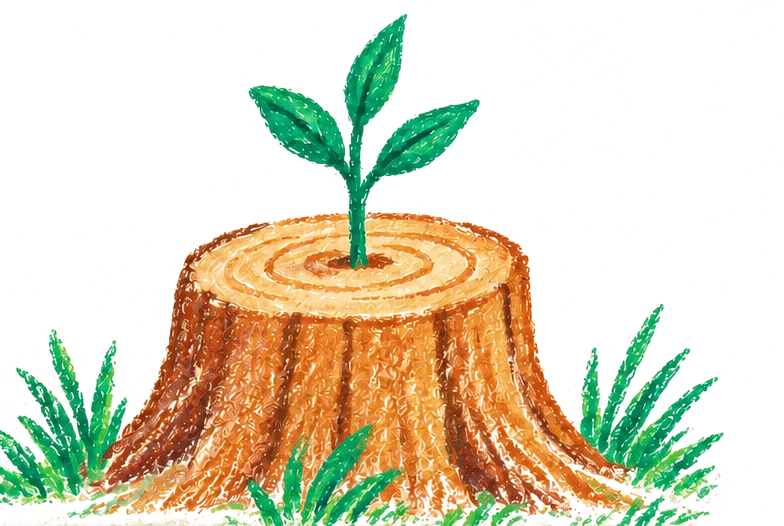
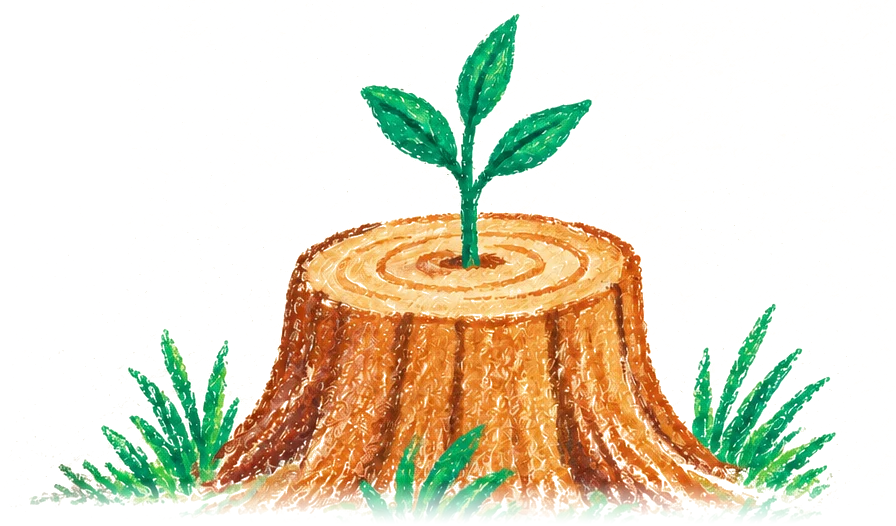
Close the look gate: phone overflow, paused pill, copy command, tap targets, band scale, whole plates
- Hidden tooltips leave layout, and the account and top-bar tooltips anchor to the right edge, so no
  screen pans sideways at 390 for any role.
- A paused top bar at 900 px and below shows an ink "Resume" pill (still named "Resume publishing").
- The homepage Copy button copies the bare install command; the prompt sits outside <code>.
- Header and footer Docs links and the Settings tabs are at least 44 px wide.
- The homepage bands follow the picked image's type scale and spacing at 1100 px and wider.
- The hero plate and both tufts are re-cut so the grass keeps its own tips, with soft bottom edges.

diff --git a/src/site/styles/landing.css b/src/site/styles/landing.css
@@ -1,6 +1,7 @@
 /* The homepage (SPEC §2.2): measured on hero/HERO-1440.png, stacked at 390. */
-.lp-hero { position: relative; padding-bottom: 56px; }
-.lp-hero-plate { position: absolute; top: -6px; left: 49%; width: min(735px, 51vw); height: auto; z-index: 0; pointer-events: none; }
+.lp-hero { position: relative; padding-bottom: 56px; overflow-x: clip; }
+/* The plate is cut at 1536 scale from x 640 (the left grass's tips) and drawn at 0.9375, so the stump itself stays at x 49 %. */
+.lp-hero-plate { position: absolute; top: -6px; left: calc(49% - min(105px, 7.292vw)); width: min(840px, 58.333vw); height: auto; z-index: 0; pointer-events: none; }
 .lp-hero-copy { position: relative; z-index: 1; padding-top: 46px; }
 .lp-hero h1 { margin: 0; max-width: 700px; color: var(--ink); font: 800 clamp(40px, 5.9vw, 84px)/0.96 var(--font); letter-spacing: -0.03em; }
 .lp-sub { margin: 30px 0 0; max-width: 500px; font-size: clamp(17px, 1.4vw, 20px); line-height: 1.6; color: var(--ink); }
@@ -44,7 +45,7 @@
 .lp-body { margin: 24px 0 0; font-size: clamp(16.5px, 1.25vw, 18px); line-height: 1.6; color: var(--body); max-width: 30em; }
 .lp-band h2 { max-width: 9.6em; }
 .lp-band-card { position: relative; }
-.lp-tuft { position: absolute; width: 64px; height: auto; top: -46px; z-index: 0; pointer-events: none; }
+.lp-tuft { position: absolute; width: auto; height: 64px; top: -44px; z-index: 0; pointer-events: none; }
 .lp-tuft--right { right: 8px; }
 .lp-tuft--left { left: -6px; }
 .lp-band-card > .lp-card, .lp-band-card > .lp-terminal { position: relative; z-index: 1; }
@@ -87,8 +88,9 @@
 .lp-check-title { margin: 0 0 2px; font: 600 19px/1.3 var(--font); color: var(--ink); }
 .lp-checks .lp-row-meta { margin: 0; }
 .lp-terminal { display: flex; align-items: center; justify-content: space-between; gap: 16px; padding: 40px 32px; border-radius: 16px; background: var(--ink); color: #F3EFE6; box-shadow: var(--card-shadow); }
-.lp-terminal code { font: 400 18px/1.5 var(--mono); overflow-wrap: anywhere; }
-.lp-terminal code span { color: #6FCFA6; }
+.lp-command { margin: 0; min-width: 0; font: 400 18px/1.5 var(--mono); overflow-wrap: anywhere; }
+.lp-terminal code { font: inherit; }
+.lp-prompt { color: #6FCFA6; }
 .lp-tip { position: relative; display: inline-flex; flex: none; }
 .lp-tip [role="tooltip"] { position: absolute; bottom: calc(100% + 8px); right: 0; white-space: nowrap; background: var(--white); color: var(--ink); font-size: 13px; padding: 4px 8px; border-radius: 6px; opacity: 0; pointer-events: none; transition: opacity .1s; }
 .lp-tip:hover [role="tooltip"] { opacity: 1; transition-delay: .3s; }
@@ -113,6 +115,51 @@
 
 @media (prefers-reduced-motion: reduce) { .lp-tile { transition: none; } .lp-tile:hover { transform: none; } }
 
+/* 1100 and wider: the picked image's scale (SPEC preamble, style process step 3), which runs larger than §3.2's table */
+@media (min-width: 1101px) {
+  .lp-band { padding-block: 56px; }
+  .lp-band-grid { gap: 64px; }
+  .lp-eyebrow { margin-bottom: 12px; font-size: 17px; line-height: 22px; letter-spacing: 0.12em; }
+  .lp-band h2, .lp-details h2 { font-size: clamp(52px, 4.6vw, 66px); line-height: 1; }
+  .lp-band h2 { max-width: 8.6em; }
+  .lp-body { margin-top: 28px; font-size: clamp(19px, 1.5vw, 22px); line-height: 1.5; max-width: 28em; }
+  .lp-feature { padding: 32px 36px; }
+  .lp-card-title { margin-bottom: 10px; font: 700 26px/1.3 var(--font); letter-spacing: -0.005em; }
+  .lp-rows li { gap: 14px; min-height: 66px; }
+  .lp-row-name { font-size: 21px; font-weight: 700; }
+  .lp-row-meta { font-size: 17px; }
+  .lp-band .lp-chips li, .lp-band .lp-chip { height: 32px; padding: 0 14px; font-size: 17px; }
+  .lp-master { padding: 22px 24px; font-size: 24px; line-height: 1.3; text-wrap: balance; }
+  .lp-variants { margin: 16px 0 24px; gap: 14px; }
+  .lp-variants li { padding: 14px 16px; }
+  .lp-variant-name { font-size: 18px; }
+  .lp-variant-count { font-size: 17px; }
+  .lp-pill { min-height: 50px; padding: 0 28px; font-size: 18px; }
+  .lp-pills { gap: 14px; margin-top: 22px; }
+  .lp-label { font-size: 18px; color: var(--ink); }
+  .lp-rules li { gap: 14px; padding: 8px 0; font-size: 19px; }
+  .lp-rules .lp-row-meta { font-size: 16px; }
+  .lp-small { margin: 6px 0; font-size: 18px; }
+  .lp-reply-who { font-size: 19px; }
+  .lp-tick--sm { width: 26px; height: 26px; }
+  .lp-checks .lp-tick--md { width: 44px; height: 44px; }
+  .lp-ledger table { font-size: 19px; }
+  .lp-ledger th { font-size: 18px; padding-bottom: 16px; }
+  .lp-ledger th, .lp-ledger td { padding-right: 24px; }
+  .lp-ledger td { padding-block: 20px; }
+  .lp-signups { font-size: 24px; }
+  .lp-checks li { gap: 28px; padding: 26px 0; }
+  .lp-check-title { font-size: 23px; }
+  .lp-checks .lp-row-meta { font-size: 18px; }
+  .lp-terminal { padding: 56px 40px; }
+  .lp-command { font-size: 20px; }
+  .lp-details { padding-block: 64px 80px; }
+  .lp-tiles { margin-top: 36px; gap: 20px; }
+  .lp-tile { gap: 16px; padding: 22px 28px 28px; font: 800 28px/1.2 var(--font); letter-spacing: -0.01em; }
+  .lp-tile .lp-tick--md { width: 40px; height: 40px; }
+  .lp-tuft { height: 72px; top: -50px; }
+}
+
 @media (max-width: 1100px) {
   .lp-hero-plate { opacity: .35; }
   .lp-steps { grid-template-columns: 1fr; }
@@ -128,7 +175,8 @@
   .lp-actions { flex-direction: column; align-items: stretch; gap: 4px; margin-top: 20px; }
   .lp-actions .site-pill--large { min-height: 52px; width: 100%; }
   .lp-actions .lp-textlink { justify-content: center; }
-  .lp-hero-plate { position: static; order: 1; width: 300px; margin: 8px auto 0; opacity: 1; }
+  /* 300 px of stump (the plate's right 784 of 896 columns), centred on the stump rather than the left grass */
+  .lp-hero-plate { position: static; order: 1; width: min(343px, 88vw); margin: 8px auto 0; transform: translateX(-6.25%); opacity: 1; }
   .lp-hero > .site-wrap:last-child { order: 2; }
   .lp-steps { margin-top: 0; gap: 12px; }
   .lp-step { min-height: 0; padding: 18px 20px; }
@@ -146,7 +194,7 @@
   .lp-band h2, .lp-details h2 { font-size: 32px; line-height: 34px; }
   .lp-body { margin-top: 16px; font-size: 17px; }
   .lp-feature { padding: 20px; }
-  .lp-tuft { width: 48px; top: -34px; }
+  .lp-tuft { width: auto; height: 48px; top: -33px; }
   .lp-rows li { flex-wrap: wrap; row-gap: 4px; min-height: 56px; padding: 8px 0; }
   .lp-row-name { font-size: 16px; }
   .lp-variants { grid-template-columns: repeat(2, minmax(0, 1fr)); }
@@ -156,7 +204,7 @@
   .lp-ledger th:nth-child(4), .lp-ledger td:nth-child(4) { display: none; }
   .lp-ledger table { font-size: 14px; }
   .lp-terminal { padding: 24px 20px; }
-  .lp-terminal code { font-size: 15px; }
+  .lp-command { font-size: 15px; }
   .lp-tiles { grid-template-columns: 1fr; gap: 12px; margin-top: 24px; }
   .lp-tile { flex-direction: row; align-items: center; gap: 16px; padding: 18px 20px; font-size: 18px; }
   .lp-closing-grid { grid-template-columns: 1fr; min-height: 0; gap: 8px; padding-bottom: 32px; }

diff --git a/src/stump/ui/styles.ts b/src/stump/ui/styles.ts
@@ -83,7 +83,7 @@ code { font-family: var(--stump-mono); font-size: .9em; background: var(--stump-
 .st-settings-head { margin: 0 0 32px; }
 .st-settings-title { font: 800 var(--stump-size-title)/38px var(--stump-font); letter-spacing: -0.02em; color: var(--stump-ink); margin: 0 0 20px; }
 .st-tabs { display: flex; gap: 28px; border-bottom: 1px solid var(--stump-hairline); overflow-x: auto; scrollbar-width: none; }
-.st-tabs a { display: inline-flex; align-items: center; min-height: 44px; padding: 0 2px; color: var(--stump-muted); text-decoration: none; font-size: 16px; font-weight: 500; white-space: nowrap; border-bottom: 2px solid transparent; margin-bottom: -1px; }
+.st-tabs a { display: inline-flex; align-items: center; justify-content: center; min-height: 44px; min-width: 44px; padding: 0 2px; color: var(--stump-muted); text-decoration: none; font-size: 16px; font-weight: 500; white-space: nowrap; border-bottom: 2px solid transparent; margin-bottom: -1px; }
 .st-tabs a:hover { color: var(--stump-ink); }
 .st-tabs a[aria-current="page"] { color: var(--stump-ink); font-weight: 600; border-bottom-color: var(--stump-emerald); }
 .st-settings .st-page > h1:first-child, .st-settings .st-page h1 { font-size: 24px; line-height: 30px; }
@@ -206,10 +206,13 @@ code { font-family: var(--stump-mono); font-size: .9em; background: var(--stump-
 
 /* The one tooltip (H19): 2-4 words, ~300 ms on hover, at once on focus */
 .st-tip { position: relative; display: inline-flex; }
-.st-tip [role="tooltip"] { position: absolute; bottom: calc(100% + 6px); left: 50%; transform: translateX(-50%); white-space: nowrap; background: var(--stump-ink); color: var(--stump-white); font-size: 13px; line-height: 18px; padding: 4px 8px; border-radius: 6px; pointer-events: none; opacity: 0; transition: opacity .1s; z-index: 50; }
+/* A hidden tooltip is out of layout, so one near an edge never widens the page. */
+.st-tip [role="tooltip"] { display: none; position: absolute; bottom: calc(100% + 6px); left: 50%; transform: translateX(-50%); white-space: nowrap; background: var(--stump-ink); color: var(--stump-white); font-size: 13px; line-height: 18px; padding: 4px 8px; border-radius: 6px; pointer-events: none; z-index: 50; }
 .st-tip.below [role="tooltip"] { bottom: auto; top: calc(100% + 6px); }
-.st-tip:hover [role="tooltip"] { opacity: 1; transition-delay: .3s; }
-.st-tip:focus-within [role="tooltip"] { opacity: 1; transition-delay: 0s; }
+.st-tip.end [role="tooltip"] { left: auto; right: 0; transform: none; }
+.st-tip:hover [role="tooltip"] { display: block; animation: st-tip-in .1s ease-out .3s both; }
+.st-tip:focus-within [role="tooltip"] { display: block; animation: st-tip-in .1s ease-out both; }
+@keyframes st-tip-in { from { opacity: 0; } to { opacity: 1; } }
 .st-sr { position: absolute; width: 1px; height: 1px; padding: 0; margin: -1px; overflow: hidden; clip: rect(0 0 0 0); white-space: nowrap; border: 0; }
 
 @media (prefers-reduced-motion: reduce) { .st-button, .st-nav a, .st-pause { transition: none; } .st-button.primary:hover { transform: none; } }
@@ -233,6 +236,8 @@ code { font-family: var(--stump-mono); font-size: .9em; background: var(--stump-
   .st-pause:not(.paused) .st-pause-icon { background: transparent; }
   .st-pause:not(.paused) .st-pause-icon svg { width: 18px; height: 18px; }
   .st-pause.paused { padding: 0 14px 0 6px; }
+  .st-pause.paused .st-pause-more { position: absolute; width: 1px; height: 1px; overflow: hidden; clip: rect(0 0 0 0); white-space: nowrap; }
+  .st-topbar .st-tip:not(.st-menu-tip) [role="tooltip"] { left: auto; right: 0; transform: none; }
   .st-avatar { width: 44px; height: 44px; padding: 4px; background-clip: content-box; font-size: 14px; }
   .st-main { padding: 24px 16px 48px; }
   .st-page h1, .st-settings-title { font-size: 26px; line-height: 32px; }

diff --git a/src/site/landing/Landing.tsx b/src/site/landing/Landing.tsx
@@ -21,7 +21,7 @@ function Actions({ className = '' }: { className?: string }) {
 
 function Hero() {
   return <section className="lp-hero" aria-labelledby="lp-title">
-    <img className="lp-hero-plate" src="/art/stump-hero.webp" alt="" width="836" height="526" fetchPriority="high" />
+    <img className="lp-hero-plate" src="/art/stump-hero.webp" alt="" width="896" height="526" fetchPriority="high" />
     <div className="site-wrap lp-hero-copy">
       <h1 id="lp-title">Be heard in your own voice.</h1>
       <p className="lp-sub">Stump turns your changelog into posts for the communities worth showing up in, then shows which posts brought signups.</p>
@@ -52,6 +52,8 @@ function Hero() {
   </section>
 }
 
+const TUFT = { left: { width: 235, height: 201 }, right: { width: 175, height: 226 } }
+
 /** One band: a 5/12 text column beside a 7/12 card, the sides alternating. */
 function Band({ id, eyebrow, title, children, card, flip, tuft }: { id: string; eyebrow?: string; title: ReactNode; children: ReactNode; card: ReactNode; flip?: boolean; tuft: 'left' | 'right' }) {
   return <section className={flip ? 'lp-band lp-band--flip' : 'lp-band'} aria-labelledby={id}>
@@ -62,7 +64,7 @@ function Band({ id, eyebrow, title, children, card, flip, tuft }: { id: string; 
         <p className="lp-body">{children}</p>
       </div>
       <div className="lp-band-card">
-        <img className={`lp-tuft lp-tuft--${tuft}`} src={`/art/tuft-${tuft}.webp`} alt="" width="140" height="186" loading="lazy" />
+        <img className={`lp-tuft lp-tuft--${tuft}`} src={`/art/tuft-${tuft}.webp`} alt="" {...TUFT[tuft]} loading="lazy" />
         {card}
       </div>
     </div>
@@ -134,7 +136,7 @@ function Standards() {
 
 function Terminal() {
   return <div className="lp-terminal" data-copy-scope>
-    <code><span aria-hidden="true">&gt; </span>npx -y @runeditrun/rer cli install</code>
+    <p className="lp-command"><span className="lp-prompt" aria-hidden="true">&gt; </span><code>npx -y @runeditrun/rer cli install</code></p>
     <span className="lp-tip">
       <button type="button" className="lp-copy" data-copy aria-label="Copy command" hidden>
         <svg viewBox="0 0 24 24" aria-hidden="true" focusable="false"><rect x="8" y="8" width="11" height="11" rx="2.5" fill="none" stroke="currentColor" strokeWidth="1.75" /><path d="M5 15V6.5A1.5 1.5 0 0 1 6.5 5H15" fill="none" stroke="currentColor" strokeWidth="1.75" strokeLinecap="round" /></svg>

diff --git a/src/site/styles/site.css b/src/site/styles/site.css
@@ -36,7 +36,7 @@ a { color: inherit; }
 .site-lockup { display: inline-flex; align-items: center; gap: 10px; color: var(--ink); text-decoration: none; font: 800 28px/1 var(--font); letter-spacing: -0.02em; min-height: 44px; }
 .site-lockup img { width: 44px; height: auto; display: block; }
 .site-header-nav { display: flex; align-items: center; gap: 32px; }
-.site-header-nav a { color: var(--ink); text-decoration: none; font-size: 17px; font-weight: 500; display: inline-flex; align-items: center; min-height: 44px; }
+.site-header-nav a { color: var(--ink); text-decoration: none; font-size: 17px; font-weight: 500; display: inline-flex; align-items: center; justify-content: center; min-height: 44px; min-width: 44px; }
 .site-header-nav a[aria-current="page"] { font-weight: 700; box-shadow: inset 0 -2px 0 var(--emerald); }
 .site-header-nav a:not(.site-pill):hover { color: var(--emerald-text); }
 
@@ -54,7 +54,7 @@ a { color: inherit; }
 .site-footer-line { color: var(--body); font-size: 17px; }
 .site-footnote { color: var(--muted); font-size: 14px; margin-top: 12px !important; }
 .site-footer-nav { display: flex; gap: 40px; }
-.site-footer-nav a { color: var(--ink); text-decoration: none; font-size: 17px; display: inline-flex; align-items: center; min-height: 44px; }
+.site-footer-nav a { color: var(--ink); text-decoration: none; font-size: 17px; display: inline-flex; align-items: center; justify-content: center; min-height: 44px; min-width: 44px; }
 .site-footer-nav a:hover { color: var(--emerald-text); }
 
 @media (prefers-reduced-motion: reduce) { .site-pill { transition: none; } .site-pill:hover { transform: none; } }

diff --git a/src/stump/ui/pause.tsx b/src/stump/ui/pause.tsx
@@ -70,8 +70,8 @@ function useDismiss(open: boolean, close: () => void) {
 
 /**
  * The top bar's Pause pill (SPEC §4.1): "Pause publishing" pauses everything
- * in one press; while paused it reads "Resume publishing" and opens the resume
- * popover, which shows what went out and what stayed held.
+ * in one press; while paused it reads "Resume publishing" ("Resume" on a phone)
+ * and opens the resume popover, which shows what went out and what stayed held.
  */
 export function PauseControl({ role }: { role: string | undefined }) {
   const { data, all } = usePause()
@@ -90,7 +90,7 @@ export function PauseControl({ role }: { role: string | undefined }) {
   }
   return <div className="st-pop-anchor" ref={ref}>
     <button type="button" className={all ? 'st-pause paused' : 'st-pause'} aria-expanded={open} aria-controls="st-resume" onClick={() => open ? close() : setOpen(true)}>
-      <span className="st-pause-icon"><Icon name={all ? 'play' : 'pause'} /></span><span className="st-pause-label">{all ? 'Resume publishing' : 'Pause publishing'}</span>
+      <span className="st-pause-icon"><Icon name={all ? 'play' : 'pause'} /></span><span className="st-pause-label">{all ? <>Resume<span className="st-pause-more"> publishing</span></> : 'Pause publishing'}</span>
     </button>
     {open ? <div className="st-popover" id="st-resume" role="dialog" aria-labelledby="st-resume-title">
       <p className="st-popover-title" id="st-resume-title">{resumed ? 'Publishing resumed' : 'Resume publishing'}</p>

diff --git a/src/stump/ui/kit.tsx b/src/stump/ui/kit.tsx
@@ -3,8 +3,9 @@ import { explain } from './api.ts'
 import { Icon, type IconName } from './icons.tsx'
 
 /** The one tooltip every icon-only control uses: 2-4 words, after ~300 ms on hover, at once on focus. `below` for controls at the top of the page. */
-export function Tip({ label, children, side = 'above', className }: { label: string; children: ReactNode; side?: 'above' | 'below'; className?: string }) {
-  return <span className={['st-tip', side === 'below' ? 'below' : '', className ?? ''].filter(Boolean).join(' ')}>{children}<span role="tooltip">{label}</span></span>
+/** A 2-4 word tooltip; `align="end"` keeps it inside the screen for a control at the right edge. */
+export function Tip({ label, children, side = 'above', align = 'center', className }: { label: string; children: ReactNode; side?: 'above' | 'below'; align?: 'center' | 'end'; className?: string }) {
+  return <span className={['st-tip', side === 'below' ? 'below' : '', align === 'end' ? 'end' : '', className ?? ''].filter(Boolean).join(' ')}>{children}<span role="tooltip">{label}</span></span>
 }
 
 export type ChipTone = 'neutral' | 'success' | 'held' | 'danger'

diff --git a/src/routes/app.tsx b/src/routes/app.tsx
@@ -60,7 +60,7 @@ function Avatar({ name, email }: { name: string; email: string }) {
     window.location.assign('/signin')
   }
   return <div className="st-pop-anchor" ref={ref}>
-    <Tip label="Your account" side="below">
+    <Tip label="Your account" side="below" align="end">
       <button type="button" className="st-avatar" aria-haspopup="menu" aria-expanded={open} aria-label={`${name}, account menu`} onClick={() => setOpen(!open)}>{initialsOf(name)}</button>
     </Tip>
     {open ? <div className="st-menu" role="menu">
